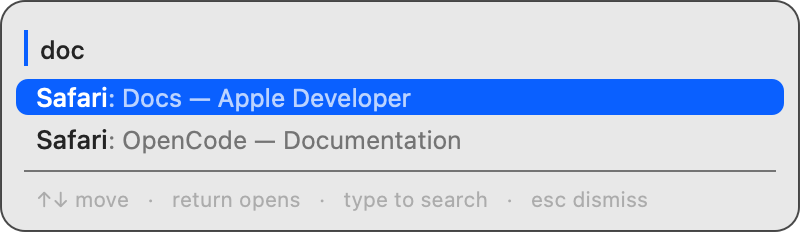
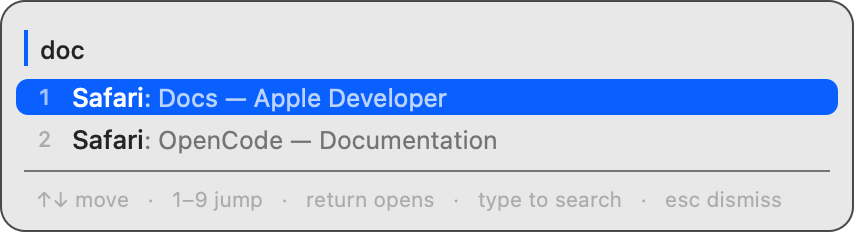
Add 1-9 row shortcuts that jump straight to a window
The first nine rows now carry a number, and that number is a shortcut:
pressing 5 closes the panel and focuses row 5. When the target is
already on screen, scanning to it and pressing Enter is the slow part of
using the switcher, so the digits cut that step out.

Numbers are positional: they follow a row's rank in the shown list, not a
visible slot. Filtering first then pressing a digit is therefore a
two-step jump ("doc", then 2), which is why the shortcut is not gated on
an empty query. The tradeoff is that the digit keys are spent here and
cannot be used as filter characters; letters filter exactly as before.

The map is keyed by physical key code rather than by the character the
layout produces, so the number row and the numeric keypad reach the same
rows and the shortcut does not move on a non-US layout. A digit with no
matching row is swallowed, so it never leaks into the query.

ListView reserves an 18pt gutter on every row so the app names keep one
left edge; rows past nine are unnumbered but still indented. Sizing
accounts for the gutter, and the footer hints at the shortcuts.

--history-test now pins the mapping down, checking both keyboard regions
and that a letter or 0 is not a shortcut. The README screenshots are
regenerated from --fake.

Also adds AGENTS.md, which records the invariants a change is likely to
break (enumerate before ordering the panel front, never become key,
--fake stays synthetic, and so on).

diff --git a/Sources/CmdTab/ListView.swift b/Sources/CmdTab/ListView.swift
@@ -12,6 +12,9 @@ final class ListView: NSView {
 
     private let hPad: CGFloat = 12
     private let rowHeight: CGFloat = 21
+    /// Width of the 1–9 shortcut column. Reserved on every row, drawn only where a
+    /// number exists, so the app names stay in one left edge.
+    private let numberGutter: CGFloat = 18
     private let headerHeight: CGFloat = 26
     private let hintHeight: CGFloat = 20
     private let bottomPad: CGFloat = 6
@@ -34,7 +37,7 @@ final class ListView: NSView {
         textWidth = max(textWidth, (Self.hintText as NSString).size(withAttributes: [.font: Self.hintFont]).width)
         if rows.isEmpty { textWidth = max(textWidth, 190) }
 
-        let width = min(max(textWidth + hPad * 2 + 12, 400), 860)
+        let width = min(max(textWidth + numberGutter + hPad * 2 + 12, 400), 860)
 
         var height = hPad
         if !query.isEmpty { height += headerHeight }
@@ -61,8 +64,9 @@ final class ListView: NSView {
     private static let nameFont = NSFont.systemFont(ofSize: 13, weight: .medium)
     private static let titleFont = NSFont.systemFont(ofSize: 12.5)
     private static let queryFont = NSFont.systemFont(ofSize: 12.5, weight: .medium)
+    private static let numberFont = NSFont.monospacedDigitSystemFont(ofSize: 11, weight: .medium)
     static let hintFont = NSFont.systemFont(ofSize: 10.5)
-    static let hintText = "↑↓ move   ·   return opens   ·   type to search   ·   esc dismiss"
+    static let hintText = "↑↓ move   ·   1–9 jump   ·   return opens   ·   type to search   ·   esc dismiss"
 
     private static func paragraph(_ color: NSColor) -> NSParagraphStyle {
         let style = NSMutableParagraphStyle()
@@ -87,6 +91,17 @@ final class ListView: NSView {
             .font: titleFont, .foregroundColor: secondary, .paragraphStyle: style,
         ]))
         return text
+    }
+
+    /// Right-aligned shortcut number for the 1–9 column.
+    private static func numberString(_ number: Int, selected: Bool) -> NSAttributedString {
+        let style = NSMutableParagraphStyle()
+        style.alignment = .right
+        return NSAttributedString(string: "\(number)", attributes: [
+            .font: numberFont,
+            .foregroundColor: selected ? NSColor.white.withAlphaComponent(0.62) : NSColor.tertiaryLabelColor,
+            .paragraphStyle: style,
+        ])
     }
 
     override func draw(_ dirtyRect: NSRect) {
@@ -141,11 +156,24 @@ final class ListView: NSView {
                     pill.fill()
                 }
 
+                // Numbers follow the row's rank, not the visible slot, so "5" means the
+                // same row whether or not the list is scrolled.
+                if index < 9 {
+                    let label = Self.numberString(index + 1, selected: index == selection)
+                    let labelSize = label.size()
+                    label.draw(in: NSRect(
+                        x: rect.minX + 2,
+                        y: rect.midY - labelSize.height / 2,
+                        width: numberGutter - 6,
+                        height: labelSize.height
+                    ))
+                }
+
                 let text = Self.rowString(rows[index], selected: index == selection)
                 let size = text.size()
-                text.draw(in: NSRect(x: rect.minX + 6,
+                text.draw(in: NSRect(x: rect.minX + 6 + numberGutter,
                                      y: rect.midY - size.height / 2,
-                                     width: max(0, rect.width - 12),
+                                     width: max(0, rect.width - 12 - numberGutter),
                                      height: size.height))
             }
         }

diff --git a/Sources/CmdTab/HistoryTest.swift b/Sources/CmdTab/HistoryTest.swift
@@ -1,8 +1,8 @@
 import Cocoa
 
-/// `--history-test` exercises AppHistory.sort and the row-0 selection rule with
-/// synthetic data, so the ordering contract can be checked without a GUI.
-/// Prints app names only.
+/// `--history-test` exercises AppHistory.sort, the row-0 selection rule, and the 1–9
+/// shortcut key mapping with synthetic data, so those contracts can be checked without
+/// a GUI. Prints app names only.
 enum HistoryTest {
     static func run() -> Int32 {
         _ = NSApplication.shared
@@ -124,6 +124,23 @@ enum HistoryTest {
             "row 1 is the app you came from (the selection)",
             [ordered[1].appName], ["AppA"]
         )
+
+        // The 1–9 shortcuts are keyed by physical key code, so both the number row and
+        // the numeric keypad reach the same row, and nothing else is a shortcut.
+        func checkRow(_ label: String, _ keyCode: Int64, _ want: Int?) {
+            let got = Switcher.shortcutRow(forKeyCode: keyCode)
+            let ok = got == want
+            if !ok { failures += 1 }
+            print("\(ok ? "PASS" : "FAIL")  \(label)")
+            if !ok { print("      got:  \(String(describing: got)), want: \(String(describing: want))") }
+        }
+        checkRow("number-row 1 maps to row 0", 18, 0)
+        checkRow("number-row 5 maps to row 4", 23, 4)
+        checkRow("number-row 9 maps to row 8", 25, 8)
+        checkRow("keypad 5 maps to row 4", 87, 4)
+        checkRow("keypad 9 maps to row 8", 92, 8)
+        checkRow("a letter is not a shortcut", 17, nil)     // "t"
+        checkRow("0 is not a shortcut", 29, nil)
 
         print(failures == 0 ? "\nall checks passed" : "\n\(failures) check(s) failed")
         return failures == 0 ? 0 : 1

diff --git a/Sources/CmdTab/Switcher.swift b/Sources/CmdTab/Switcher.swift
@@ -130,6 +130,20 @@ final class Switcher {
 
     // MARK: - Input
 
+    /// Physical key codes for the 1–9 row shortcuts. Key codes rather than characters so
+    /// the shortcut stays on the same key regardless of what the layout prints there
+    /// (the number row and the numeric keypad both map to the same row).
+    private static let shortcutKeyCodes: [Int64: Int] = [
+        18: 1, 19: 2, 20: 3, 21: 4, 23: 5, 22: 6, 26: 7, 28: 8, 25: 9,
+        83: 1, 84: 2, 85: 3, 86: 4, 87: 5, 88: 6, 89: 7, 91: 8, 92: 9,
+    ]
+
+    /// Zero-based row index for a 1–9 shortcut, or nil when the key is not one of them.
+    /// Internal rather than private so `--history-test` can pin the mapping down.
+    static func shortcutRow(forKeyCode keyCode: Int64) -> Int? {
+        shortcutKeyCodes[keyCode].map { $0 - 1 }
+    }
+
     /// Returns true when the event should be swallowed.
     /// The panel is sticky: it stays up after Cmd is released so you can type.
     /// Enter opens the selected window; Escape dismisses.
@@ -141,6 +155,17 @@ final class Switcher {
                   !flags.contains(.maskControl)
             else { return false }
             show()
+            return true
+        }
+
+        // 1–9 jump straight to the row carrying that number: the panel closes and that
+        // window is focused, which is the whole point of the numbering. Because the
+        // digits are spent here they are not available as filter characters; letters are.
+        if let row = Self.shortcutRow(forKeyCode: keyCode) {
+            if row < shown.count {
+                selection = row
+                commit()
+            }
             return true
         }
 

diff --git a/AGENTS.md b/AGENTS.md
@@ -1,0 +1,199 @@
+# AGENTS.md
+
+Guidance for agents working in this repo. Read this before changing anything; the design
+has a few non-obvious constraints that are easy to "fix" into a regression.
+
+## What this is
+
+CmdTab is a menu-bar-only (LSUIElement) macOS app that replaces ⌘⇥ with a flat,
+filterable list of `App Name: Window Title` rows. No icons, no thumbnails, no animations.
+
+- No third-party dependencies, no SwiftPM targets beyond the one executable.
+- macOS 13+, Swift 5.9+.
+- Everything is AppKit/ApplicationServices C APIs. There is no SwiftUI, no storyboards,
+  no Xcode project — the `.app` is assembled by the Makefile.
+
+## Build, run, verify
+
+```sh
+swift build -c release          # or: make build
+make run                        # debug run from .build
+make app-bundle                 # -> ./CmdTab.app (signs it)
+make install                    # -> ~/Applications/CmdTab.app
+make dist                       # universal arm64+x86_64 zip in dist/
+make shot                       # regenerate the README screenshots
+```
+
+There is **no unit-test framework**. The only automated check is the ordering contract:
+
+```sh
+swift build -c release && ./.build/release/CmdTab --history-test
+```
+
+It prints `PASS`/`FAIL` per check and exits non-zero on failure. Run it after touching
+`AppHistory.swift`, the `recent` sort path in `WindowList.swift`,
+`Switcher.initialSelection()`, or the 1–9 shortcut map in `Switcher.swift`. If you change
+the MRU rules or the numbering, add a case to `HistoryTest.swift` rather than testing by
+hand.
+
+Useful diagnostics (all documented in `README.md`):
+
+```sh
+./.build/release/CmdTab --dump           # window list + enumeration time
+./.build/release/CmdTab --fake --out=x.png
+open ./CmdTab.app --args --demo          # show the panel without the hotkey
+open ./CmdTab.app --args --demo --text=term
+tail -f ~/Library/Logs/CmdTab.log
+```
+
+`--dump` run from a terminal reports the *terminal's* TCC status, not the app's. Trust the
+log the app writes, not the terminal.
+
+## Architecture
+
+One process, one main run loop, no IPC except Accessibility queries.
+
+```
+⌘⇥ ── EventTap (session CGEventTap, head insert) ── AppDelegate.wireTap
+        └─ Switcher.handleKeyDown ── show()
+             └─ WindowCache.refreshBlocking
+                  └─ WindowList.current
+                       ├─ CGWindowListCopyWindowInfo  → z-order + window rects (no permission)
+                       └─ AX.windows(for: pid)        → titles + AXUIElement (needs Accessibility)
+             └─ ListView.draw
+   ⏎ ── Switcher.commit ── AppHistory.record + SwitchWindow.focus ── AX.focus
+```
+
+| File | Responsibility |
+| --- | --- |
+| `main.swift` | Entry point. Handles `--dump`, `--dump-history`, `--fake`, `--history-test`, then the single-instance guard, then `app.run()`. |
+| `EventTap.swift` | Session-level `CGEventTap`. Returning `nil` from the callback swallows the event. Also handles `tapDisabledByTimeout`/`ByUserInput` re-enable. |
+| `AX.swift` | Thin, allocation-light wrappers over the Accessibility C API; app/hung-app messaging timeout. |
+| `WindowList.swift` | `SwitchWindow`, `SortMode`, the CGWindowList × AX merge, and `WindowCache` (the warm snapshot). |
+| `AppHistory.swift` | Real per-app MRU order, observed via `NSWorkspace.didActivateApplicationNotification`. |
+| `Switcher.swift` | The panel (`SwitcherPanel`), state machine, key handling (including the 1–9 row shortcuts), filtering/scoring, commit. Also holds `Preferences.sortMode`. |
+| `ListView.swift` | Hand-drawn `NSView`. Sizing, the 1–9 number gutter, rows, selection pill, hint footer, row click hit-testing. |
+| `AppDelegate.swift` | Status item + menu, permission prompting/retry, tap health check, login item, cache warming, `--selftest`. |
+| `FakeShot.swift` | `--fake`: renders the panel from fixture titles to a PNG. |
+| `HistoryTest.swift` | `--history-test`: the ordering-contract smoke test. |
+| `Log.swift` | Append-only `~/Library/Logs/CmdTab.log`, rotated at 256 KB. |
+
+## Invariants — do not break these
+
+**Sort the stack before the panel is frontmost.** `Switcher.show()` calls
+`WindowCache.refreshBlocking` *before* `panel.orderFrontRegardless()`. The panel is a
+window, so once it is up it tops the front-to-back z-order. Enumerating after that ranks
+the previously-focused window wrongly and quietly falsifies "row 1 is where you came
+from". Do not move enumeration after presentation, and do not "optimise" the hot path by
+switching `show()` to `refreshAsync`.
+
+**The panel must never become key.** `SwitcherPanel.canBecomeKey`/`canBecomeMain` return
+`false` and it is a `.nonactivatingPanel`. All keystrokes arrive through the event tap and
+are dispatched manually by `Switcher.handleKeyDown`. Making it key breaks the
+non-activating behaviour that lets it float over full-screen apps.
+
+**The panel is sticky, and ⌘ release does not commit.** It stays open after ⌘ is let go so
+typing filters normally; it closes on ⏎, esc, click-outside, or 15 s idle. Adding
+`flagsChanged`-commits is a deliberate feature change, not a bug fix — see "Known limits"
+in the README.
+
+**`WindowList.current` must never require Screen Recording.** Window *rects* come from
+`CGWindowListCopyWindowInfo` (permission-free) and *titles* from Accessibility. Never read
+`kCGWindowName` from the CGWindow dictionary: that is what forces the Screen Recording
+prompt.
+
+**`--fake` must not touch the system.** It builds rows from the hard-coded `samples` array
+in `FakeShot.swift` and exits before the instance guard. No window enumeration, no AX, no
+tap. This is what makes it safe to regenerate the README screenshots on a machine with
+real, private windows open. Keep it that way — no "make the screenshot realistic by
+reading the current windows" changes.
+
+**Per-app history, not per-window.** `AppHistory` records `pid` only and caps at 40
+entries. Window-level focus tracking was rejected as too noisy (needs AX on every app,
+fires constantly while typing between panes). Unknown pids sort after all known ones and
+keep their incoming stacking order.
+
+**Row 0 is "where I am", row 1 is "where I came from".** In `.recent` mode
+`Switcher.initialSelection()` returns `1` so the first ⏎ bounces you back. In
+`.alphabetical` mode it returns `0` (there is no "previous"). `HistoryTest` asserts this.
+
+**1–9 are shortcuts, not filter characters.** `Switcher.handleKeyDown` maps the digit key
+codes to a zero-based row and calls `commit()`, so a number closes the panel and focuses
+that window. Consequences to preserve:
+
+- The map is keyed by **physical key code** (number row and numeric keypad both), not by
+  the character produced, so the shortcut does not move on non-US layouts. Add new codes
+  to `shortcutKeyCodes`, not to the `characters` path.
+- Numbers are **positional**: they follow a row's rank in `shown`, never a visible slot,
+  so the same digit means the same row after filtering or scrolling. `ListView` draws the
+  number only for `index < 9`; the gutter is reserved for every row so app names stay on
+  one left edge.
+- A digit with no matching row is swallowed and does nothing. Do not fall through to the
+  filter, and do not let a digit reach the `default:` branch that appends to `query`.
+- Filtering first then pressing a digit ("doc", then `2`) is an intended flow; do not gate
+  the shortcut on `query.isEmpty`.
+
+**`ListView` sizing must include `numberGutter`.** `desiredSize()` adds it to the measured
+text width; dropping it clips the number column or shifts every row.
+
+**`commit()` records history explicitly.** Switching to a window of an already-active app
+does not always fire `didActivateApplicationNotification`, so `commit()` calls
+`AppHistory.record(target.pid)` itself before focusing.
+
+**Threading.** `WindowCache.windows`, `WindowCache.current`, and `AppHistory.order` are
+main-thread-only by contract (there is no lock). Cross-process enumeration belongs on
+`WindowCache.queue` inside `refreshAsync` only. `refreshBlocking` deliberately runs on the
+main thread; it costs ~10–30 ms warm and that is inside one frame.
+
+**Keep the single-instance guard.** Two copies would install two event taps and fight over
+⌘⇥. Diagnostic modes are checked *before* the guard so they work while the app is running.
+
+**Do not switch to an ad-hoc signature.** macOS keys the Accessibility grant to the
+code-signing identity. Ad-hoc hashes change on every build, silently voiding the grant.
+`make app-bundle` falls back to ad-hoc with a warning when `CmdTab Local Signing` is
+missing; that fallback is a degraded mode, not the intended one.
+
+## Bumping the version
+
+Version lives in three places; update all of them together:
+
+1. `Makefile` → `VERSION :=`
+2. `Resources/Info.plist` → `CFBundleShortVersionString`
+3. `README.md` → the `make dist` example path (`dist/CmdTab-<version>.zip`)
+
+`CFBundleIdentifier` is `com.faucher.cmdtab` and is referenced by the Makefile's
+`codesign --identifier` and `make reset-permissions`; changing it invalidates existing
+signing and TCC state.
+
+## Style
+
+- Follow the surrounding code: 4-space indent, ~100 column soft wrap, `// MARK: -` section
+  dividers in larger types, `final class` for reference types, `enum` as a namespace for
+  stateless helpers.
+- Comments explain *why* (a constraint, a race, a rejected alternative), not *what*. This
+  codebase is heavily commented in that style; match it. Do not add narration like
+  "increment the counter".
+- Force-unwrapping is used only where an invariant guarantees non-nil (e.g.
+  `value as! AXValue` after a `CFGetTypeID` check). Do not add new ones without the same
+  guard.
+- New user-facing strings are English, sentence case; UI labels stay short enough for the
+  single-line footer in `ListView`.
+- Run `swift build -c release` and `--history-test` before declaring work done. Warnings
+  are not acceptable; the tree builds clean today.
+- Do not commit `.build/`, `CmdTab.app/`, `dist/`, or `.DS_Store` (already in
+  `.gitignore`).
+
+## Known rough edges
+
+- Digits are spent on the 1–9 jump, so a filter query cannot contain one. That is the
+  deliberate tradeoff; if digit filtering ever becomes a requirement, hide the number
+  gutter at the same time the shortcut is gated — never leave visible numbers that are not
+  live.
+- `WindowCache.refreshAsync`'s doc comment claims it is "the hot path"; it is not — `show()`
+  uses the blocking path deliberately (see invariants). Treat the comment as stale.
+- `AppDelegate.showPermissionAlert()` has a statement on the closing-brace line; normalise
+  it if you touch that function.
+- Enumeration only sees on-screen, unminimised windows on the current Space. That is
+  intentional; do not add `.optionAll` without deciding how off-Space windows should rank.
+- Secure Keyboard Entry disabling the tap is an OS behaviour with no workaround, not a bug
+  to fix in this repo.

diff --git a/README.md b/README.md
@@ -1,7 +1,8 @@
 # CmdTab
 
 A window-level replacement for the macOS ⌘⇥ app switcher. One flat, scannable list of
-`App Name: Window Title` — no icons, no thumbnails, no animations.
+`App Name: Window Title` — no icons, no thumbnails, no animations. The first nine rows are
+numbered, so you can jump straight to one.
 
 <img width="432" alt="CmdTab showing a list of windows as App Name: Window Title" src="https://raw.githubusercontent.com/DennisFaucher/CmdTab/main/Resources/panel.png">
 
@@ -21,11 +22,18 @@ end up in the picture.
 | ⌘⇥ again / ⇥ | Move down |
 | ⇧⌘⇥ / ⇧⇥ | Move up |
 | ↑ / ↓ | Move |
+| 1–9 | Jump straight to that row: close the panel and focus the window |
 | type | Filter the list live |
 | ⌫ | Delete a character of the query |
 | ⏎ / Enter | Open the selected window and close the panel |
 | esc | Dismiss without switching |
 | click a row | Open that window |
+
+The first nine rows carry a number to the left of the app name, and that number is a
+shortcut rather than a filter character: pressing `5` closes the panel and focuses row 5.
+The numbers follow the row's position in the list, so filtering first narrows what they
+point at — `doc` then `2` opens the second match. Because the digits are spent on the
+shortcut, a filter query cannot contain one; letters still work as before.
 
 The panel is **sticky**: it stays open after you let go of ⌘, so typing a search term
 is a normal keypress and not a ⌘-shortcut. It closes on Enter, Escape, a click
@@ -122,8 +130,10 @@ open ./CmdTab.app --args --logkeys  # log every keypress the tap sees (noisy)
 `--history-test` exercises the ordering contract against synthetic windows: that the
 most recently activated app sorts first, that history wins over stacking order, that
 unseen apps keep their place at the end, that multiple windows of one app stay in order,
-and that row 0 is the current app while row 1 is the previous one. It exits non-zero if
-any check fails, so it is usable as a smoke test after a change to ordering.
+and that row 0 is the current app while row 1 is the previous one. It also checks that the
+1–9 shortcuts map to the intended rows on both the number row and the numeric keypad. It
+exits non-zero if any check fails, so it is usable as a smoke test after a change to
+ordering or shortcuts.
 
 By default the log records ⌘⇥ presses and any key pressed while the panel is open —
 enough to tell whether the tap is alive, without logging ordinary typing.
